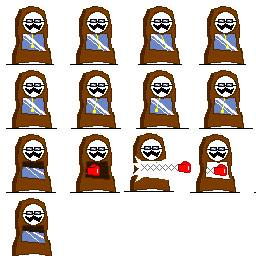
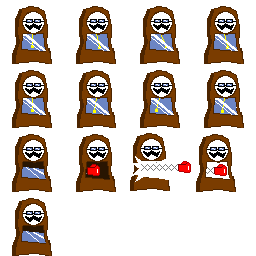
Alot, added pngs and bullets

diff --git a/scenes/StartMenu.js b/scenes/StartMenu.js
@@ -5,58 +5,76 @@ export class StartMenu extends Phaser.Scene {
 
 	preload() {
 		this.load.image("title", "assets/Title.png")
-				this.load.spritesheet("gfc", "assets/gfc.png", { frameWidth: 64, frameHeight: 64 })
-					this.load.spritesheet("glock", "assets/glock.png", { frameWidth: 64, frameHeight: 64 })
-					this.load.spritesheet("lcd", "assets/LCD.png", { frameWidth: 64, frameHeight: 64 })
-					this.load.spritesheet("shot", "assets/Shotty.png", { frameWidth: 64, frameHeight: 32 })
-
+		this.load.spritesheet("gfc", "assets/gfc.png", { frameWidth: 64, frameHeight: 64 })
+		this.load.spritesheet("bear", "assets/Bear.png", { frameWidth: 64, frameHeight: 64 })
+		this.load.spritesheet("glock", "assets/glock.png", { frameWidth: 64, frameHeight: 64 })
+		this.load.spritesheet("lcd", "assets/LCD.png", { frameWidth: 64, frameHeight: 64 })
+		this.load.spritesheet("shot", "assets/Shotty.png", { frameWidth: 64, frameHeight: 32 })
+//		this.load.spritesheet("srd", "assets/Sword.png", { frameWidth: 32, frameHeight: 32 })
 	}
 
 	create() {
-		this.title = this.add.image(400,0,'title')
+		this.title = this.add.image(400, 0, 'title')
 		this.kbStart = this.input.keyboard.addKey(Phaser.Input.Keyboard.KeyCodes.SPACE)
 		this.physics.add.existing(this.title)
 		this.title.body.collideWorldBounds = true
 		this.title.body.setBounce(0.5)
 		this.title.body.setAngularVelocity(0)
-				this.anims.create({
+		this.anims.create({
 			key: "Idle",
 			frames: this.anims.generateFrameNumbers("gfc", { start: 0, end: 12, first: 0 }),
 			framerate: 0,
 			repeat: -1,
 			duration: 2000
 		})
-				this.anims.create({
+		this.anims.create({
 			key: "sped",
 			frames: this.anims.generateFrameNumbers("glock", { start: 0, end: 3, first: 0 }),
 			framerate: 0,
 			repeat: -1,
 			duration: 500
 		})
-				this.anims.create({
+		this.anims.create({
 			key: "lld",
-			frames: this.anims.generateFrameNumbers("lcd", { start: 0, end: 3, first: 0 }),
+			frames: this.anims.generateFrameNumbers("lcd", { start: 0, end: 7, first: 0 }),
 			framerate: 0,
 			repeat: -1,
-			duration: 500
+			duration: 750
 		})
-						this.anims.create({
+		this.anims.create({
 			key: "pew",
 			frames: this.anims.generateFrameNumbers("shot", { start: 0, end: 7, first: 0 }),
 			framerate: 0,
 			repeat: -1,
 			duration: 500
 		})
+		this.anims.create({
+			key: "ber",
+			frames: this.anims.generateFrameNumbers("bear", { start: 0, end: 5, first: 0 }),
+			framerate: 0,
+			repeat: -1,
+			duration: 1000
+		})
+/*				this.anims.create({
+			key: "slice",
+			frames: this.anims.generateFrameNumbers("srd", { start: 0, end: 5, first: 0 }),
+			framerate: 0,
+			repeat: -1,
+			duration: 1000
+		})
+	*/
 		this.add.sprite(150, 100, "gfc").play("Idle")
 		this.add.sprite(300, 100, "clock").play("sped")
 		this.add.sprite(450, 100, "lcd").play("lld")
 		this.add.sprite(600, 100, "shot").play("pew")
+		this.add.sprite(150, 300, "bear").play("ber")		
+	//	this.add.sprite(300, 300, "srd").play("slice")
 	}
 	update() {
-			if (this.kbStart.isDown) {
-				this.add.text(100, 200, 'Loading...')
-				this.scene.start('main-level')
-			}
+		if (this.kbStart.isDown) {
+			this.add.text(100, 200, 'Loading...')
+			this.scene.start('main-level')
+		}
 
 	}
 }

diff --git a/scenes/MainLevel.js b/scenes/MainLevel.js
@@ -1,36 +1,47 @@
+import { Enemy } from '../objects/Enemy.js'
+import { Tower } from '../objects/Tower.js'
+import { BulletGroup } from '../objects/Bullet.js'
 export class MainLevel extends Phaser.Scene {
-  constructor() {
-    super({ key: "main-level" });
-  }
+	constructor() {
+		super({ key: "main-level" });
+	}
+	preload() {
+		console.log("loading MainLevel");
 
-  preload() {
-    console.log("loading MainLevel");
-  }
+	}
 
-  create() {
-    // this runs once when the scene is created
-    // initialize variables and create object here
+	create() {
+		this.nextEnemy = 5000
+		this.path = new Phaser.Curves.Path(700, 110)
+		this.path.lineTo(100, 110)
+		this.enemies = []
+		this.bullets = new BulletGroup(this)
+		console.log(this.bullets)
 
-    // create colliders after all objects exist
-    this.createColliders();
-  }
+		this.e = new Enemy(this, 700, 110)
+		new Tower(this, 50, 110)
 
-  update(timestamp, delta) {
-    // this runs every frame
-    // delta can be used to determine the number of milliseconds since the last update
-  }
+		this.e.setEnemyPath(this.path)
+		this.enemies.push(this.e)
+		this.createColliders();
+		//this.enemies.push(new Enemy(this, 0, 0).play('ber'))
+		if
+		this.physics.add.collider(this.bullets, this.enemies, (b, e) => { b.destroy() })
+	}
 
-  
-  createColliders() {
-    // one per colliding pair
-    // this.physics.add.collider(
-    //   this.group1,
-    //   this.group2,
-    //   this.functionToHandleCollision,  // expects item from group1 and group2 that collided
-    //   null,
-    //   this
-    // );
-		//maddox is not gay
+	update(timestamp, delta) {
+		this.nextEnemy -= delta;
+		if (this.nextEnemy < 0) {
+			const e = new Enemy(this, 700, 110);
+			e.setEnemyPath(this.path)
+			this.enemies.push(e)
+			this.nextEnemy = 5000;
 
-  }
+		}
+	}
+
+
+	createColliders() {
+
+	}
 }

diff --git a/objects/Enemy.js b/objects/Enemy.js
@@ -1,0 +1,72 @@
+ export class Enemy extends Phaser.GameObjects.Sprite {
+	constructor(scene, x, y, target) {
+		super(scene, x, y, 'bear')
+		this.scene = scene
+		this.target = target
+		this.scene.physics.add.existing(this)
+		this.scene.add.existing(this)
+		this.body.collideWorldBounds = true
+		this.timeAlive = 0
+		this.anims.create({
+			key: "bear",
+			frames: "ber",
+			framerate: 100,
+			repeat: -1,
+			duration: 500
+
+		})
+		this.anims.play("ber")
+	}
+	setEnemyPath(p) {
+		this.path = p
+	}
+	preUpdate(time, delta) {
+		super.preUpdate(time, delta)
+		this.timeAlive += delta * 0.0001
+		if (this.timeAlive > 1) {
+			this.destroy()
+
+		} else {
+			const point = this.path.getPoint(this.timeAlive)
+	//		console.log(point, this.timeAlive)
+			this.setPosition(point.x, point.y)
+		}
+	}
+
+}
+export class EnemyAlt extends Phaser.GameObjects.Sprite {
+	constructor(scene, x, y, target) {
+		super(scene, x, y, 'bear')
+		this.scene = scene
+		this.target = target
+		this.scene.physics.add.existing(this)
+		this.scene.add.existing(this)
+		this.body.collideWorldBounds = true
+		this.timeAlive = 0
+		this.anims.create({
+			key: "bear",
+			frames: "ber",
+			framerate: 100,
+			repeat: -1,
+			duration: 500
+
+		})
+		this.anims.play("ber")
+	}
+	setEnemyPath(p) {
+		this.path = p
+	}
+	preUpdate(time, delta) {
+		super.preUpdate(time, delta)
+		this.timeAlive += delta * 0.0001
+		if (this.timeAlive > 1) {
+			this.destroy()
+
+		} else {
+			const point = this.path.getPoint(this.timeAlive)
+	//		console.log(point, this.timeAlive)
+			this.setPosition(point.x, point.y)
+		}
+	}
+
+}

diff --git a/objects/Bullet.js b/objects/Bullet.js
@@ -1,0 +1,31 @@
+export class BulletGroup extends Phaser.Physics.Arcade.Group {
+	constructor(scene) {
+		super(scene.physics.world, scene)
+		this.scene = scene
+		this.immovable = true
+		this.collideWorldBounds = true
+		this.runChildUpdate = false
+		
+		
+	}
+	createBullet(shooter, damage) {
+		this.add(new Bullet(this.scene, shooter, damage))
+	}
+}
+class Bullet extends Phaser.GameObjects.Ellipse {
+	constructor(scene, shooter, color, damage) {
+		super(scene, shooter.x, shooter.y, 5, 5, 0xf0f0f0)
+		this.sceene = scene
+		this.shooter = shooter
+		this.damage = damage
+		this.name = Date.now() + '' + Math.random()
+		this.scene.add.existing(this)
+		this.scene.physics.add.existing(this)
+	}
+	preUpdate() {
+		if (!this.first) {
+			this.scene.physics.velocityFromRotation(this.shooter.rotation, 750, this.body.velocity)
+			this.first = true
+		}
+	}
+}

diff --git a/objects/Tower.js b/objects/Tower.js
@@ -1,0 +1,31 @@
+export class Tower extends Phaser.GameObjects.Sprite {
+	constructor(scene, x, y) {
+		super(scene, x, y, 'shot')
+		this.scene = scene
+		//this.target = target
+		this.scene.physics.add.existing(this)
+		this.scene.add.existing(this)
+		this.bs = 1000
+			this.anims.create({
+			key: "shot",
+			frames: "ber",
+			framerate: 100,
+			repeat: -1,
+			duration: 500
+
+		})
+		this.anims.play("pew")
+		this.nextBullet = 0
+		
+	}
+	preUpdate(time, delta) {
+		this.nextBullet -= delta
+		if (this.nextBullet <= 0) {
+			this.nextBullet = this.bs
+			this.scene.bullets.createBullet(this, 1)
+			this.fillColor = 0xed7041
+
+		}
+	}
+}
+

diff --git a/objects/Mouse.js b/objects/Mouse.js
@@ -1,0 +1,13 @@
+export class Mouse extends Phaser.GameObjects.Sprite {
+	constructor(scene, x, y) {
+		super(scene, x, y)
+		this.scene.physics.add.existing(this)
+		this.scene.add.existing(this)
+		this.body.setCollideWorldBounds(true)
+
+	}
+	preUpdate(time, delta) {
+		super.preUpdate(time, delta)
+
+	}
+}

diff --git a/main.js b/main.js
@@ -13,9 +13,9 @@ let config = {
     physics: {
         default: "arcade",
         arcade: {
-            debug: false,
+            debug: true,
             fps: 60,
-            gravity: { y: 50 }
+            gravity: { y: 0, x: 0 }
         }
     },
     scene: [ 
